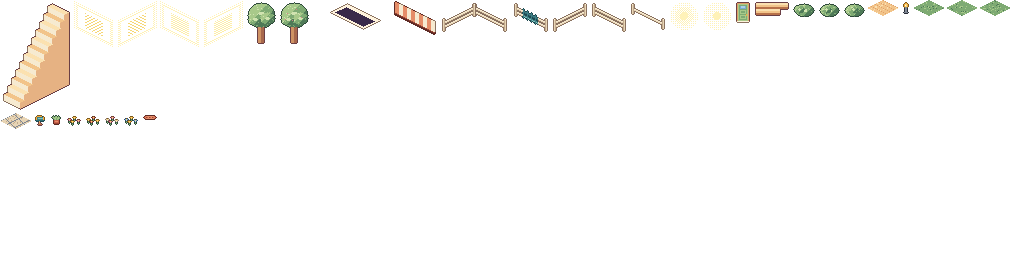
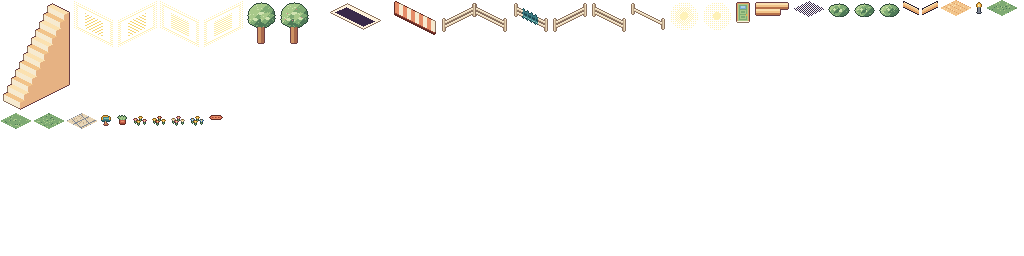
AI-4: upper-floor slab edge and shadow frames, 3x evidence (manager audit item 5)

Changed region(s): [[0.75, 0.0, 1.0, 0.0625], [0.0, 0.4375, 0.2188, 0.5]]

diff --git a/tools/pixelart/slab.py b/tools/pixelart/slab.py
@@ -1,0 +1,31 @@
+#!/usr/bin/env python3
+"""Upper-floor slab frames (house atlas) so upper rooms do not float: `prop/slabEdgeL` and `prop/slabEdgeR` are the front-left and
+front-right faces of a floor slab for ONE half-tile step (16 px wide, 6 px thick); tile them along the room's front edges, one per 16 px.
+`prop/slabShadow` is a 32x16 iso-diamond of checker-dithered palette `shade` to lay under the slab on the ground floor or yard.
+Pivot = the face's top-left art pixel for the edges, centre for the shadow. Usage: slab.py <house dir>"""
+import json, os, sys
+from PIL import Image
+sys.path.insert(0, os.path.dirname(__file__))
+from dsl import col
+T = 6
+def edge(left):
+    im = Image.new('RGBA', (16, 8 + T + 1), (0, 0, 0, 0)); px = im.load()
+    for x in range(16):
+        top = (x // 2) if left else (7 - x // 2)
+        for y in range(top, top + T + 1):
+            d = y - top
+            px[x, y] = col('ink') if d == 0 or d == T else col('woodWarm.4') if d == 1 else col('woodWarm.3') if d < 4 else col('woodWarm.2')
+        if x in (0, 15): px[x, top + 1] = col('ink')
+    return im
+def shadow():
+    im = Image.new('RGBA', (32, 16), (0, 0, 0, 0)); px = im.load()
+    for y in range(16):
+        for x in range(32):
+            if abs(x + 0.5 - 16) / 16 + abs(y + 0.5 - 8) / 8 <= 1 and (x + y) % 2 == 0: px[x, y] = col('shade')
+    return im
+if __name__ == '__main__':
+    d = sys.argv[1]; piv = json.load(open(os.path.join(d, 'pivots.json')))
+    for name, im, pv in (('slabEdgeL', edge(True), (0, 0)), ('slabEdgeR', edge(False), (0, 0)), ('slabShadow', shadow(), (16, 8))):
+        pd = Image.new('RGBA', (im.width + 2, im.height + 2), (0, 0, 0, 0)); pd.alpha_composite(im, (1, 1))   # 1 px transparent padding
+        pd.save(os.path.join(d, f'prop__{name}.png')); piv[f'prop/{name}'] = {'pivot': [pv[0] + 1, pv[1] + 1]}
+    json.dump(piv, open(os.path.join(d, 'pivots.json'), 'w'), indent=0); print('slab done')

diff --git a/docs/status/AI-4.md b/docs/status/AI-4.md
@@ -15,6 +15,7 @@
 - Task 6 puzzle skins: panels (32x32 nine-slice, slice 8, own trim accent) plus extras for the 8 remaining kinds, all in assets/frames/puzzle-<kind>/ and packed as `puzzle:<kind>` atlases: sort `token_0..3`; word `tile`, `tile_ok`, `tile_near`, `tile_miss`; code `key`, `slot`; target `ring`, `ring_hit`; sequence `pad_0..3`, `pad_lit_0..3`; slide `tile`, `tile_blank`; pipes `pipe_straight`, `pipe_elbow`; memory `card_back`, `card_face`. Source: tools/pixelart/puzzles.py. 11 of 11 implemented kinds now have art.
 - Task 7 FX: 3 pixel frames for each of the 16 FxNames (`fx/<name>/0..2`, tiny, pale and tintable; coin and buy gold), in the core atlas; source tools/pixelart/fx.py. src/fx/layer.ts now plays them when all three frames are in the manifest and the atlas is loaded (frame advances 0,1,2 over the particle's life at fixed ART_PX scale, no fractional scale or rotation), else falls back to the old procedural textures. Particle caps unchanged (MAX_PARTICLES 60 pool, spec counts untouched). No wiring needed from AI-3 beyond playFx calls that already exist.
 - Task 8 boot cost: `generateAllTextures` no longer bakes the five 1280x720 legacy room backgrounds (the most expensive canvases; 4.6 M px of vector drawing). New `ensureRoomTexture(scene, id)` and `ensureAllRoomTextures(scene)` in src/art/index.ts bake them on first use, idempotent, no-op for non-legacy ids. Called from RoomView.build and OrganiseScene.create (one line each, files owned by others, changed because they would otherwise show a missing texture). A Home boot now skips them entirely. Remaining boot bakes (spots, items, icons, decor, iso kit) are untouched: they are the fallbacks the atlas art still covers.
+- Manager audit items: (5) slab frames `prop/slabEdgeL`, `prop/slabEdgeR` (one 16 px step, 6 px thick, honey trim with ink outline) and `prop/slabShadow` (32x16 dithered shade diamond) in the house atlas; tile the edges every 16 px along the front edges, shadow under the slab. Source tools/pixelart/slab.py. 3x evidence: docs/art/evidence/art-living-3x.png and art-bedroom-3x.png. Not done: audit item 2 (furniture still reads as blobs at Overview size; needs per-piece silhouette and tone work).
 ## Verified
 - `python3 tools/check-frames/check.py assets/frames/room-slice --max 96` -> "141 files, 0 problems".
 - `npm run art:sheet` -> "missing frames: none"; rugs checked by eye in docs/art/evidence/art-sheet.png; bed frames checked enlarged in isolation only (art-sheet does not draw spots).
@@ -28,6 +29,7 @@
 ## Weaknesses (honest, from art-sheet)
 - Same teal spiky plant still used 2-3 times per room; rooms still read 18-29 props with big empty floor; floor-level pieces like the small red tiles look like stray markers.
 ## Requests
+- AI-3: place `prop/slabEdgeL|R` and `prop/slabShadow` (item 5 of the manager audit); the 3 new plant kinds are still unregistered by AI-2 (see below).
 - AI-2: add the 8 new kinds to src/puzzles/skinKinds.ts so skinPanel picks up the panels, and use the extras (names above, pivots are chip centres) in each puzzle scene in place of the code-drawn shapes. Chips are 16x16 (target ring 16x16, hit mark 12x12).
 - AI-3: apply `LIGHT_KEYS[time]` as ONE multiply rectangle over the house in Overview and Focus, pick the shell with `shellPart(time)`, glow with `windowGlowKey`, and show `fx/lampGlow/0` when `lampsOn(time)`. Dusk has no window-glow frame of its own: it uses the night one.
 - AI-3: Hud.itemImage should use `icon/<item>_sil` for undiscovered items (today it shows the dark/tinted icon). Icons are drawn at 64 game px max side; the brief asks for 96, scale them up with no change to the frames.
